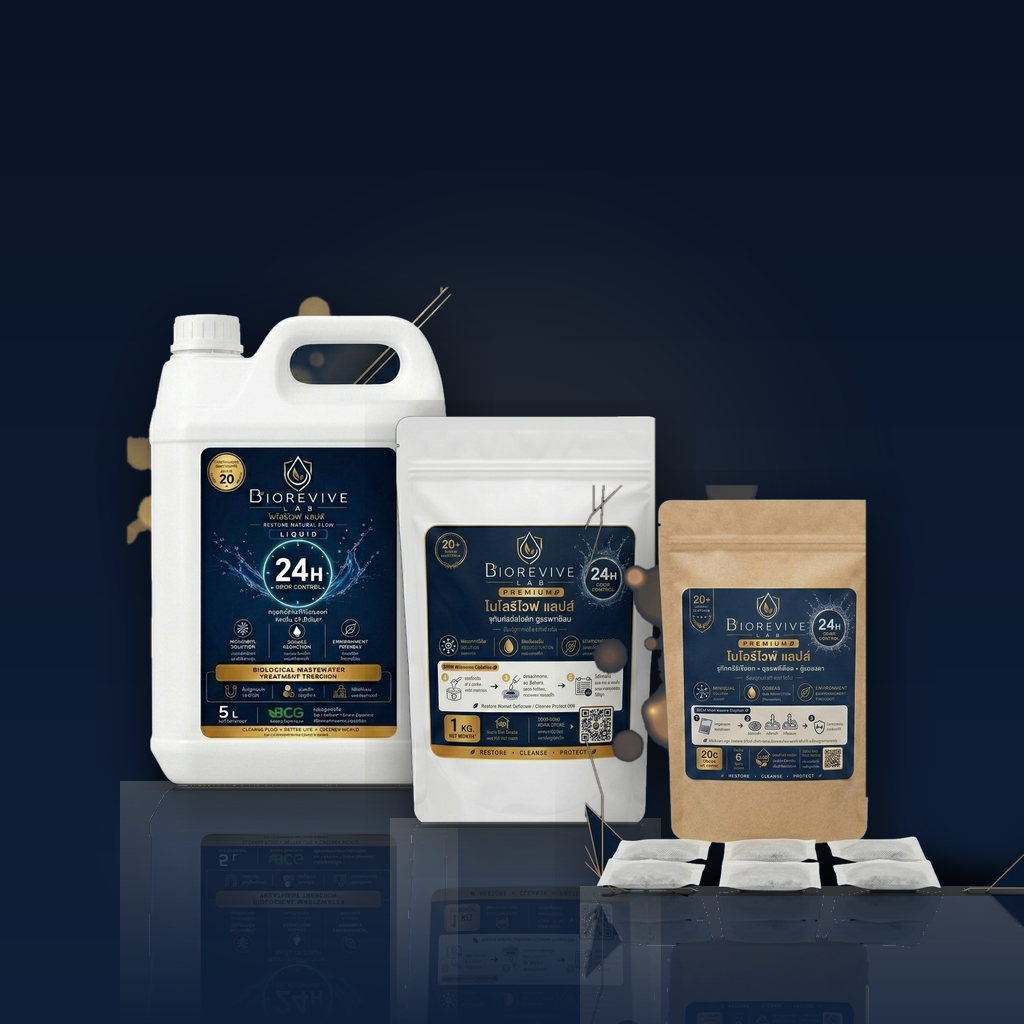
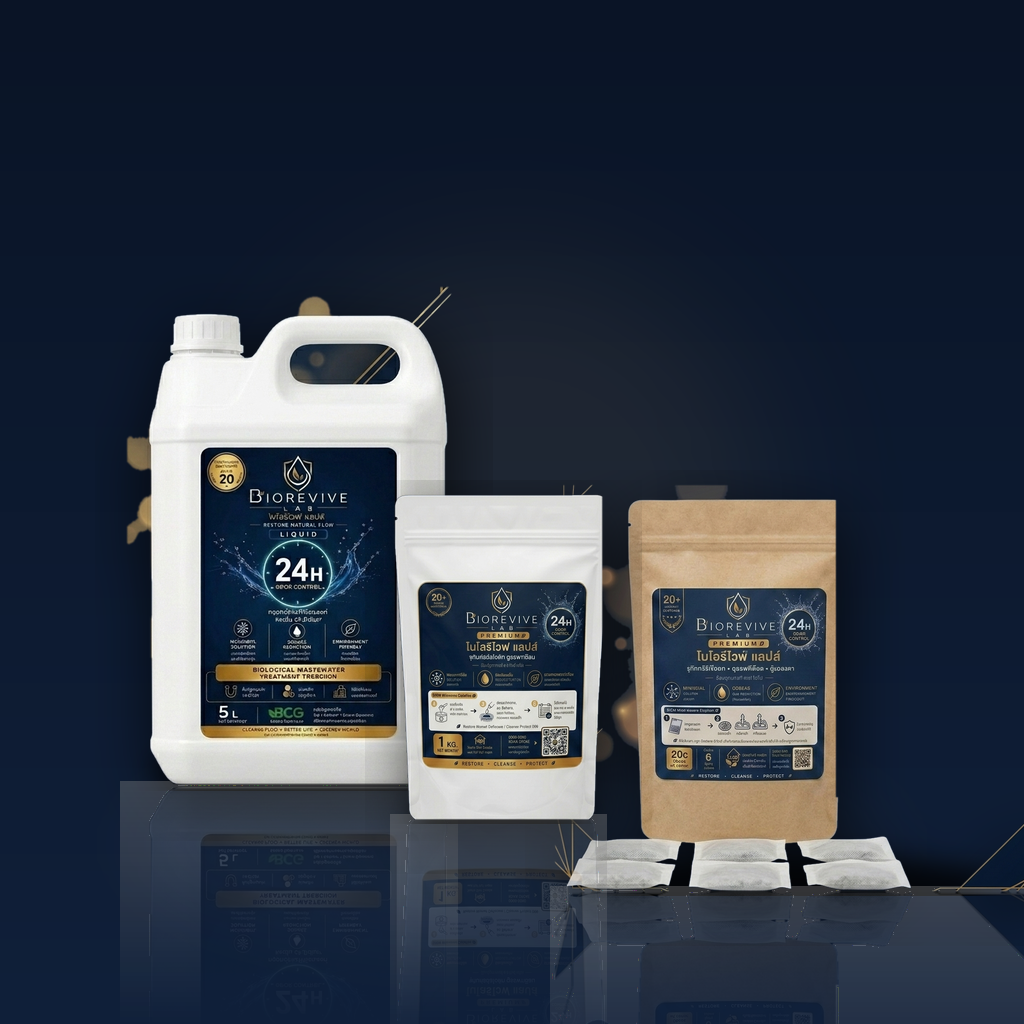
Scale down white 1kg pouch to match brown teabag zip pouch perfectly in Set M

Changed region(s): [[0.375, 0.375, 1.0, 0.9688], [0.625, 0.9062, 0.6562, 0.9375], [0.5312, 0.9688, 0.5625, 1.0]]

diff --git a/compose_promo_sets.py b/compose_promo_sets.py
@@ -97,8 +97,8 @@ create_set_v3("Set S", [
 # Set M
 create_set_v3("Set M", [
     (PROD_5L, (120, 280), 0.72),
-    (PROD_1KG, (390, 410), 0.60),
-    (PROD_TEABAG, (580, 480), 0.52)
+    (PROD_1KG, (390, 490), 0.48),
+    (PROD_TEABAG, (550, 480), 0.52)
 ], "promo_set_m_lifestyle.png")
 
 # Set L
